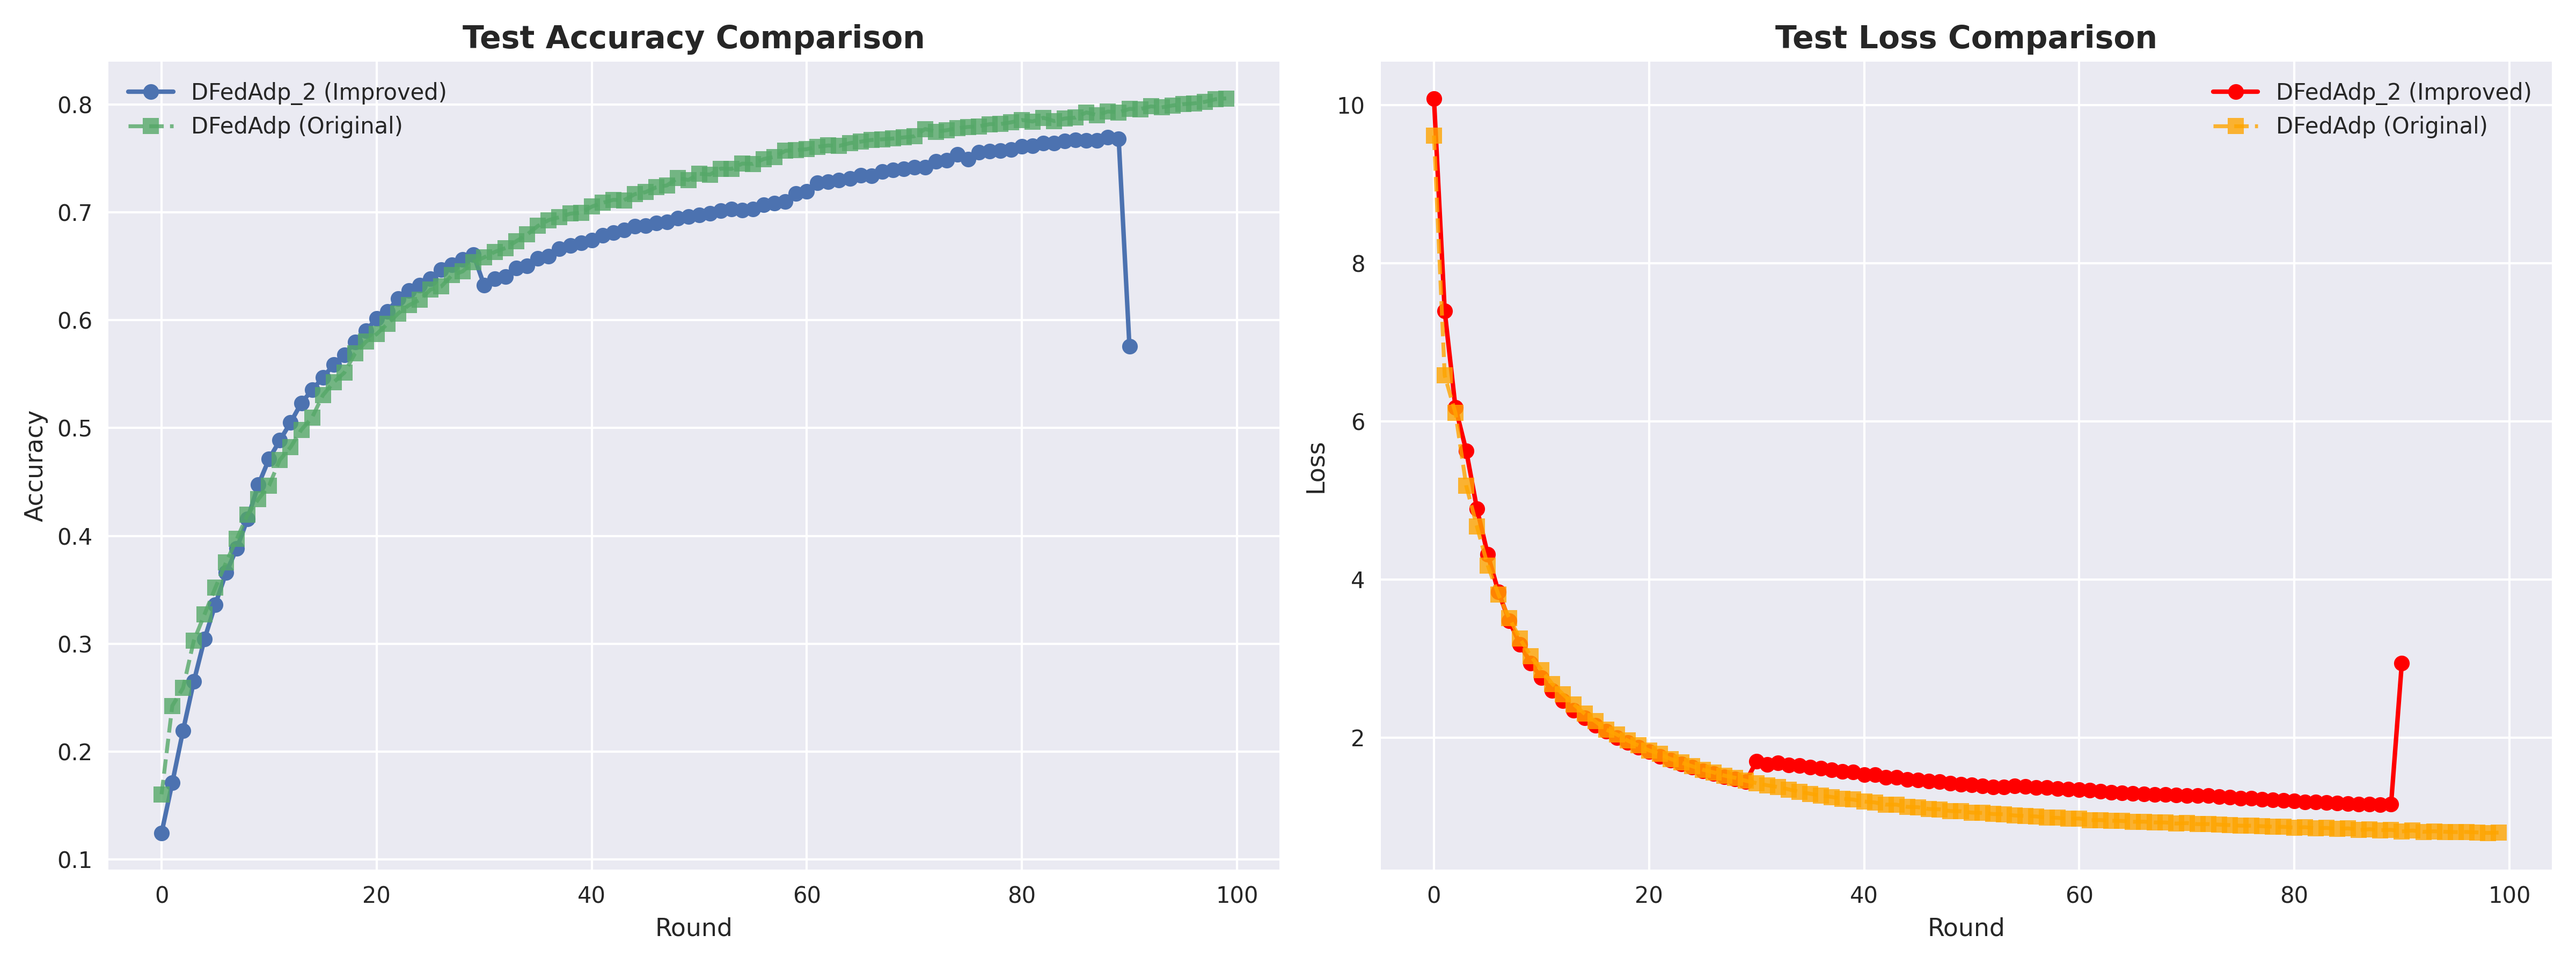
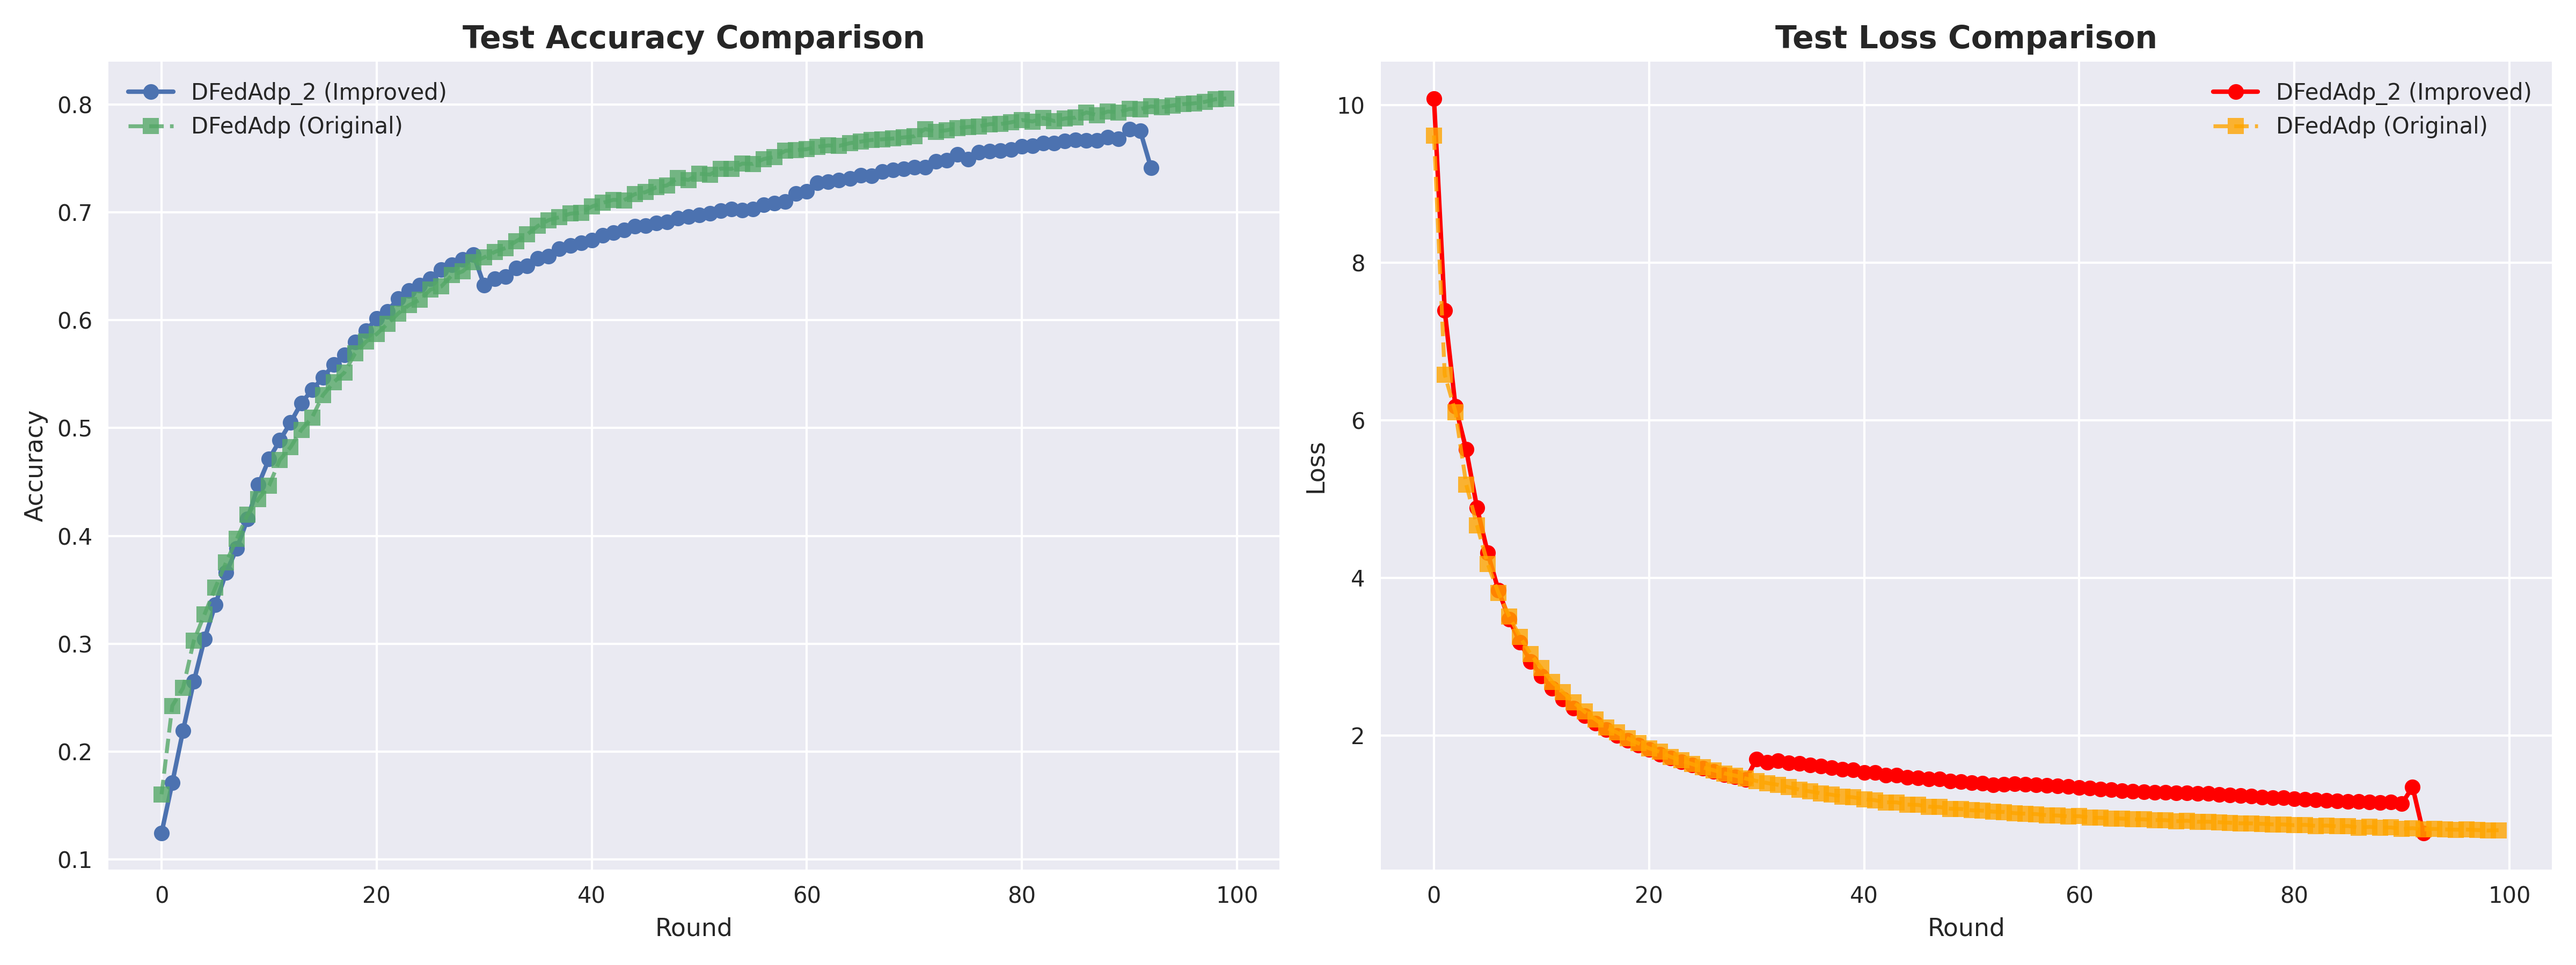
decrease B

Changed region(s): [[0.625, 0.7467, 0.9688, 0.8711], [0.4375, 0.1244, 0.4688, 0.1867], [0.5938, 0.7156, 0.625, 0.7467]]

diff --git a/p2pfl/learning/aggregators/dfedadp2.py b/p2pfl/learning/aggregators/dfedadp2.py
@@ -12,7 +12,7 @@ class DFedAdp_2(Aggregator):
     REQUIRED_INFO_KEYS = ["delta", "degrees"] 
 
     def __init__(self, disable_partial_aggregation: bool = False, base_learning_rate: float = 0.001, 
-                 min_learning_rate: float = 0.0001, B: float = 2.0, beta: float = 5.0) -> None:
+                 min_learning_rate: float = 0.0001, B: float = 1.0, beta: float = 2.0) -> None:
         super().__init__(disable_partial_aggregation=disable_partial_aggregation)
         self.global_model_params: List[np.ndarray] = []
         
@@ -23,8 +23,8 @@ class DFedAdp_2(Aggregator):
         self.base_learning_rate = base_learning_rate
         self.current_learning_rate = base_learning_rate
         self.min_learning_rate = min_learning_rate
-        self.B = B # Decreased default B for better neighborhood inclusion
-        self.beta = beta # Increased beta for sharper node selection
+        self.B = B # Further decreased for better inclusion
+        self.beta = beta # Balanced beta for diversity
         
         self.prev_local_gradient: List[np.ndarray] = []
 
